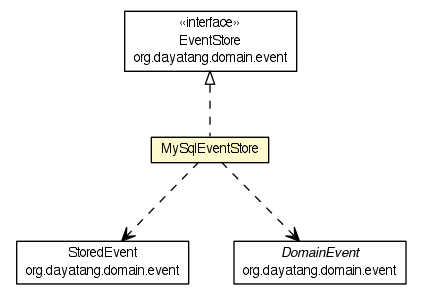
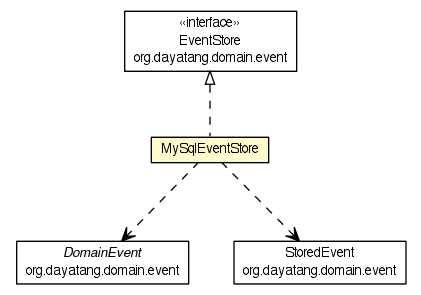
wagon-git commit

Changed region(s): [[0.6485, 0.8237, 0.8646, 0.8847], [0.1544, 0.8237, 0.3397, 0.8847]]

diff --git a/dddlib-event-store/apidocs/org/dayatang/mysql/MySqlEventStore.html b/dddlib-event-store/apidocs/org/dayatang/mysql/MySqlEventStore.html
@@ -2,7 +2,7 @@
 <!-- NewPage -->
 <html lang="en">
 <head>
-<!-- Generated by javadoc (version 1.7.0_67) on Mon Oct 06 21:34:44 CST 2014 -->
+<!-- Generated by javadoc (version 1.7.0_67) on Mon Oct 06 22:26:11 CST 2014 -->
 <meta http-equiv="Content-Type" content="text/html" charset="UTF-8">
 <title>MySqlEventStore (DDDLib Database Utils 4.4.1-SNAPSHOT API)</title>
 <meta name="date" content="2014-10-06">
@@ -84,10 +84,10 @@
 <map id="G" name="G">
 <area shape="rect" id="node1_0" href="./MySqlEventStore.html" title="org.dayatang.mysql.MySqlEventStore" alt="" coords="151,137,269,162"/>
 <area shape="rect" id="node1" href="./MySqlEventStore.html" title="&lt;TABLE&gt;" alt="" coords="141,125,279,173"/>
-<area shape="rect" id="node3_1" href="http://java.sun.com/j2se/1.4.2/docs/api/org/dayatang/domain/event/StoredEvent.html" title="org.dayatang.domain.event.StoredEvent" alt="" coords="16,241,188,284"/>
-<area shape="rect" id="node3" href="http://java.sun.com/j2se/1.4.2/docs/api/org/dayatang/domain/event/StoredEvent.html" title="&lt;TABLE&gt;" alt="" coords="5,236,199,289"/>
-<area shape="rect" id="node4_2" href="http://java.sun.com/j2se/1.4.2/docs/api/org/dayatang/domain/event/DomainEvent.html" title="org.dayatang.domain.event.DomainEvent" alt="" coords="233,241,405,284"/>
-<area shape="rect" id="node4" href="http://java.sun.com/j2se/1.4.2/docs/api/org/dayatang/domain/event/DomainEvent.html" title="&lt;TABLE&gt;" alt="" coords="223,236,416,289"/>
+<area shape="rect" id="node3_1" href="http://java.sun.com/j2se/1.4.2/docs/api/org/dayatang/domain/event/DomainEvent.html" title="org.dayatang.domain.event.DomainEvent" alt="" coords="16,241,188,284"/>
+<area shape="rect" id="node3" href="http://java.sun.com/j2se/1.4.2/docs/api/org/dayatang/domain/event/DomainEvent.html" title="&lt;TABLE&gt;" alt="" coords="5,236,199,289"/>
+<area shape="rect" id="node4_2" href="http://java.sun.com/j2se/1.4.2/docs/api/org/dayatang/domain/event/StoredEvent.html" title="org.dayatang.domain.event.StoredEvent" alt="" coords="233,241,405,284"/>
+<area shape="rect" id="node4" href="http://java.sun.com/j2se/1.4.2/docs/api/org/dayatang/domain/event/StoredEvent.html" title="&lt;TABLE&gt;" alt="" coords="223,236,416,289"/>
 <area shape="rect" id="node2_3" href="http://java.sun.com/j2se/1.4.2/docs/api/org/dayatang/domain/event/EventStore.html" title="org.dayatang.domain.event.EventStore" alt="" coords="124,11,296,71"/>
 <area shape="rect" id="node2" href="http://java.sun.com/j2se/1.4.2/docs/api/org/dayatang/domain/event/EventStore.html" title="&lt;TABLE&gt;" alt="" coords="113,5,307,76"/>
 </map>
@@ -108,13 +108,13 @@
 <li class="blockList">
 <dl>
 <dt>All Implemented Interfaces:</dt>
-<dd><a href="http://www.dayatang.org/dddlib/dddlib-domain/apidocs/org/dayatang/domain/event/EventStore.html?is-external=true" title="class or interface in org.dayatang.domain.event">EventStore</a></dd>
+<dd>org.dayatang.domain.event.EventStore</dd>
 </dl>
 <hr>
 <br>
 <pre>public class <span class="strong">MySqlEventStore</span>
 extends <a href="http://docs.oracle.com/javase/6/docs/api/java/lang/Object.html?is-external=true" title="class or interface in java.lang">Object</a>
-implements <a href="http://www.dayatang.org/dddlib/dddlib-domain/apidocs/org/dayatang/domain/event/EventStore.html?is-external=true" title="class or interface in org.dayatang.domain.event">EventStore</a></pre>
+implements org.dayatang.domain.event.EventStore</pre>
 <div class="block">Created by yyang on 14-9-16.</div>
 </li>
 </ul>
@@ -152,8 +152,8 @@ implements <a href="http://www.dayatang.org/dddlib/dddlib-domain/apidocs/org/day
 <th class="colLast" scope="col">Method and Description</th>
 </tr>
 <tr class="altColor">
-<td class="colFirst"><code><a href="http://www.dayatang.org/dddlib/dddlib-domain/apidocs/org/dayatang/domain/event/StoredEvent.html?is-external=true" title="class or interface in org.dayatang.domain.event">StoredEvent</a></code></td>
-<td class="colLast"><code><strong><a href="../../../org/dayatang/mysql/MySqlEventStore.html#append(org.dayatang.domain.event.DomainEvent)">append</a></strong>(<a href="http://www.dayatang.org/dddlib/dddlib-domain/apidocs/org/dayatang/domain/event/DomainEvent.html?is-external=true" title="class or interface in org.dayatang.domain.event">DomainEvent</a>&nbsp;domainEvent)</code>&nbsp;</td>
+<td class="colFirst"><code>org.dayatang.domain.event.StoredEvent</code></td>
+<td class="colLast"><code><strong><a href="../../../org/dayatang/mysql/MySqlEventStore.html#append(org.dayatang.domain.event.DomainEvent)">append</a></strong>(org.dayatang.domain.event.DomainEvent&nbsp;domainEvent)</code>&nbsp;</td>
 </tr>
 <tr class="rowColor">
 <td class="colFirst"><code>void</code></td>
@@ -164,12 +164,12 @@ implements <a href="http://www.dayatang.org/dddlib/dddlib-domain/apidocs/org/day
 <td class="colLast"><code><strong><a href="../../../org/dayatang/mysql/MySqlEventStore.html#countStoredEvents()">countStoredEvents</a></strong>()</code>&nbsp;</td>
 </tr>
 <tr class="rowColor">
-<td class="colFirst"><code><a href="http://docs.oracle.com/javase/6/docs/api/java/util/List.html?is-external=true" title="class or interface in java.util">List</a>&lt;<a href="http://www.dayatang.org/dddlib/dddlib-domain/apidocs/org/dayatang/domain/event/StoredEvent.html?is-external=true" title="class or interface in org.dayatang.domain.event">StoredEvent</a>&gt;</code></td>
+<td class="colFirst"><code><a href="http://docs.oracle.com/javase/6/docs/api/java/util/List.html?is-external=true" title="class or interface in java.util">List</a>&lt;org.dayatang.domain.event.StoredEvent&gt;</code></td>
 <td class="colLast"><code><strong><a href="../../../org/dayatang/mysql/MySqlEventStore.html#findStoredEventsBetween(java.util.Date,%20java.util.Date)">findStoredEventsBetween</a></strong>(<a href="http://docs.oracle.com/javase/6/docs/api/java/util/Date.html?is-external=true" title="class or interface in java.util">Date</a>&nbsp;occurredFrom,
                        <a href="http://docs.oracle.com/javase/6/docs/api/java/util/Date.html?is-external=true" title="class or interface in java.util">Date</a>&nbsp;occurredTo)</code>&nbsp;</td>
 </tr>
 <tr class="altColor">
-<td class="colFirst"><code><a href="http://docs.oracle.com/javase/6/docs/api/java/util/List.html?is-external=true" title="class or interface in java.util">List</a>&lt;<a href="http://www.dayatang.org/dddlib/dddlib-domain/apidocs/org/dayatang/domain/event/StoredEvent.html?is-external=true" title="class or interface in org.dayatang.domain.event">StoredEvent</a>&gt;</code></td>
+<td class="colFirst"><code><a href="http://docs.oracle.com/javase/6/docs/api/java/util/List.html?is-external=true" title="class or interface in java.util">List</a>&lt;org.dayatang.domain.event.StoredEvent&gt;</code></td>
 <td class="colLast"><code><strong><a href="../../../org/dayatang/mysql/MySqlEventStore.html#findStoredEventsSince(java.util.Date)">findStoredEventsSince</a></strong>(<a href="http://docs.oracle.com/javase/6/docs/api/java/util/Date.html?is-external=true" title="class or interface in java.util">Date</a>&nbsp;occurredFrom)</code>&nbsp;</td>
 </tr>
 </table>
@@ -217,11 +217,11 @@ implements <a href="http://www.dayatang.org/dddlib/dddlib-domain/apidocs/org/day
 <ul class="blockList">
 <li class="blockList">
 <h4>findStoredEventsBetween</h4>
-<pre>public&nbsp;<a href="http://docs.oracle.com/javase/6/docs/api/java/util/List.html?is-external=true" title="class or interface in java.util">List</a>&lt;<a href="http://www.dayatang.org/dddlib/dddlib-domain/apidocs/org/dayatang/domain/event/StoredEvent.html?is-external=true" title="class or interface in org.dayatang.domain.event">StoredEvent</a>&gt;&nbsp;findStoredEventsBetween(<a href="http://docs.oracle.com/javase/6/docs/api/java/util/Date.html?is-external=true" title="class or interface in java.util">Date</a>&nbsp;occurredFrom,
-                                        <a href="http://docs.oracle.com/javase/6/docs/api/java/util/Date.html?is-external=true" title="class or interface in java.util">Date</a>&nbsp;occurredTo)</pre>
+<pre>public&nbsp;<a href="http://docs.oracle.com/javase/6/docs/api/java/util/List.html?is-external=true" title="class or interface in java.util">List</a>&lt;org.dayatang.domain.event.StoredEvent&gt;&nbsp;findStoredEventsBetween(<a href="http://docs.oracle.com/javase/6/docs/api/java/util/Date.html?is-external=true" title="class or interface in java.util">Date</a>&nbsp;occurredFrom,
+                                                                  <a href="http://docs.oracle.com/javase/6/docs/api/java/util/Date.html?is-external=true" title="class or interface in java.util">Date</a>&nbsp;occurredTo)</pre>
 <dl>
 <dt><strong>Specified by:</strong></dt>
-<dd><code><a href="http://www.dayatang.org/dddlib/dddlib-domain/apidocs/org/dayatang/domain/event/EventStore.html?is-external=true#findStoredEventsBetween(java.util.Date,%20java.util.Date)" title="class or interface in org.dayatang.domain.event">findStoredEventsBetween</a></code>&nbsp;in interface&nbsp;<code><a href="http://www.dayatang.org/dddlib/dddlib-domain/apidocs/org/dayatang/domain/event/EventStore.html?is-external=true" title="class or interface in org.dayatang.domain.event">EventStore</a></code></dd>
+<dd><code>findStoredEventsBetween</code>&nbsp;in interface&nbsp;<code>org.dayatang.domain.event.EventStore</code></dd>
 </dl>
 </li>
 </ul>
@@ -231,10 +231,10 @@ implements <a href="http://www.dayatang.org/dddlib/dddlib-domain/apidocs/org/day
 <ul class="blockList">
 <li class="blockList">
 <h4>findStoredEventsSince</h4>
-<pre>public&nbsp;<a href="http://docs.oracle.com/javase/6/docs/api/java/util/List.html?is-external=true" title="class or interface in java.util">List</a>&lt;<a href="http://www.dayatang.org/dddlib/dddlib-domain/apidocs/org/dayatang/domain/event/StoredEvent.html?is-external=true" title="class or interface in org.dayatang.domain.event">StoredEvent</a>&gt;&nbsp;findStoredEventsSince(<a href="http://docs.oracle.com/javase/6/docs/api/java/util/Date.html?is-external=true" title="class or interface in java.util">Date</a>&nbsp;occurredFrom)</pre>
+<pre>public&nbsp;<a href="http://docs.oracle.com/javase/6/docs/api/java/util/List.html?is-external=true" title="class or interface in java.util">List</a>&lt;org.dayatang.domain.event.StoredEvent&gt;&nbsp;findStoredEventsSince(<a href="http://docs.oracle.com/javase/6/docs/api/java/util/Date.html?is-external=true" title="class or interface in java.util">Date</a>&nbsp;occurredFrom)</pre>
 <dl>
 <dt><strong>Specified by:</strong></dt>
-<dd><code><a href="http://www.dayatang.org/dddlib/dddlib-domain/apidocs/org/dayatang/domain/event/EventStore.html?is-external=true#findStoredEventsSince(java.util.Date)" title="class or interface in org.dayatang.domain.event">findStoredEventsSince</a></code>&nbsp;in interface&nbsp;<code><a href="http://www.dayatang.org/dddlib/dddlib-domain/apidocs/org/dayatang/domain/event/EventStore.html?is-external=true" title="class or interface in org.dayatang.domain.event">EventStore</a></code></dd>
+<dd><code>findStoredEventsSince</code>&nbsp;in interface&nbsp;<code>org.dayatang.domain.event.EventStore</code></dd>
 </dl>
 </li>
 </ul>
@@ -244,10 +244,10 @@ implements <a href="http://www.dayatang.org/dddlib/dddlib-domain/apidocs/org/day
 <ul class="blockList">
 <li class="blockList">
 <h4>append</h4>
-<pre>public&nbsp;<a href="http://www.dayatang.org/dddlib/dddlib-domain/apidocs/org/dayatang/domain/event/StoredEvent.html?is-external=true" title="class or interface in org.dayatang.domain.event">StoredEvent</a>&nbsp;append(<a href="http://www.dayatang.org/dddlib/dddlib-domain/apidocs/org/dayatang/domain/event/DomainEvent.html?is-external=true" title="class or interface in org.dayatang.domain.event">DomainEvent</a>&nbsp;domainEvent)</pre>
+<pre>public&nbsp;org.dayatang.domain.event.StoredEvent&nbsp;append(org.dayatang.domain.event.DomainEvent&nbsp;domainEvent)</pre>
 <dl>
 <dt><strong>Specified by:</strong></dt>
-<dd><code><a href="http://www.dayatang.org/dddlib/dddlib-domain/apidocs/org/dayatang/domain/event/EventStore.html?is-external=true#append(org.dayatang.domain.event.DomainEvent)" title="class or interface in org.dayatang.domain.event">append</a></code>&nbsp;in interface&nbsp;<code><a href="http://www.dayatang.org/dddlib/dddlib-domain/apidocs/org/dayatang/domain/event/EventStore.html?is-external=true" title="class or interface in org.dayatang.domain.event">EventStore</a></code></dd>
+<dd><code>append</code>&nbsp;in interface&nbsp;<code>org.dayatang.domain.event.EventStore</code></dd>
 </dl>
 </li>
 </ul>
@@ -260,7 +260,7 @@ implements <a href="http://www.dayatang.org/dddlib/dddlib-domain/apidocs/org/day
 <pre>public&nbsp;void&nbsp;close()</pre>
 <dl>
 <dt><strong>Specified by:</strong></dt>
-<dd><code><a href="http://www.dayatang.org/dddlib/dddlib-domain/apidocs/org/dayatang/domain/event/EventStore.html?is-external=true#close()" title="class or interface in org.dayatang.domain.event">close</a></code>&nbsp;in interface&nbsp;<code><a href="http://www.dayatang.org/dddlib/dddlib-domain/apidocs/org/dayatang/domain/event/EventStore.html?is-external=true" title="class or interface in org.dayatang.domain.event">EventStore</a></code></dd>
+<dd><code>close</code>&nbsp;in interface&nbsp;<code>org.dayatang.domain.event.EventStore</code></dd>
 </dl>
 </li>
 </ul>
@@ -273,7 +273,7 @@ implements <a href="http://www.dayatang.org/dddlib/dddlib-domain/apidocs/org/day
 <pre>public&nbsp;long&nbsp;countStoredEvents()</pre>
 <dl>
 <dt><strong>Specified by:</strong></dt>
-<dd><code><a href="http://www.dayatang.org/dddlib/dddlib-domain/apidocs/org/dayatang/domain/event/EventStore.html?is-external=true#countStoredEvents()" title="class or interface in org.dayatang.domain.event">countStoredEvents</a></code>&nbsp;in interface&nbsp;<code><a href="http://www.dayatang.org/dddlib/dddlib-domain/apidocs/org/dayatang/domain/event/EventStore.html?is-external=true" title="class or interface in org.dayatang.domain.event">EventStore</a></code></dd>
+<dd><code>countStoredEvents</code>&nbsp;in interface&nbsp;<code>org.dayatang.domain.event.EventStore</code></dd>
 </dl>
 </li>
 </ul>

diff --git a/dddlib-event-store/apidocs/org/dayatang/mysql/package-tree.html b/dddlib-event-store/apidocs/org/dayatang/mysql/package-tree.html
@@ -2,7 +2,7 @@
 <!-- NewPage -->
 <html lang="en">
 <head>
-<!-- Generated by javadoc (version 1.7.0_67) on Mon Oct 06 21:34:44 CST 2014 -->
+<!-- Generated by javadoc (version 1.7.0_67) on Mon Oct 06 22:26:11 CST 2014 -->
 <meta http-equiv="Content-Type" content="text/html" charset="UTF-8">
 <title>org.dayatang.mysql Class Hierarchy (DDDLib Database Utils 4.4.1-SNAPSHOT API)</title>
 <meta name="date" content="2014-10-06">
@@ -70,7 +70,7 @@
 <ul>
 <li type="circle">java.lang.<a href="http://docs.oracle.com/javase/6/docs/api/java/lang/Object.html?is-external=true" title="class or interface in java.lang"><span class="strong">Object</span></a>
 <ul>
-<li type="circle">org.dayatang.mysql.<a href="../../../org/dayatang/mysql/MySqlEventStore.html" title="class in org.dayatang.mysql"><span class="strong">MySqlEventStore</span></a> (implements org.dayatang.domain.event.<a href="http://www.dayatang.org/dddlib/dddlib-domain/apidocs/org/dayatang/domain/event/EventStore.html?is-external=true" title="class or interface in org.dayatang.domain.event">EventStore</a>)</li>
+<li type="circle">org.dayatang.mysql.<a href="../../../org/dayatang/mysql/MySqlEventStore.html" title="class in org.dayatang.mysql"><span class="strong">MySqlEventStore</span></a> (implements org.dayatang.domain.event.EventStore)</li>
 </ul>
 </li>
 </ul>

diff --git a/dddlib-event-store/dependencies.html b/dddlib-event-store/dependencies.html
@@ -520,21 +520,21 @@
 <td>1.6</td>
 <td>debug</td></tr>
 <tr class="b">
-<td>dddlib-domain/target/classes</td>
-<td>-</td>
-<td>0</td>
-<td>0</td>
-<td>0</td>
-<td>-</td>
-<td>release</td></tr>
+<td>dddlib-domain-4.4.1-SNAPSHOT.jar</td>
+<td>81.40 kB</td>
+<td>95</td>
+<td>83</td>
+<td>5</td>
+<td>1.6</td>
+<td>debug</td></tr>
 <tr class="a">
-<td>dddlib-utils/target/classes</td>
-<td>-</td>
-<td>0</td>
-<td>0</td>
-<td>0</td>
-<td>-</td>
-<td>release</td></tr>
+<td>dddlib-utils-4.4.1-SNAPSHOT.jar</td>
+<td>26.16 kB</td>
+<td>24</td>
+<td>17</td>
+<td>2</td>
+<td>1.6</td>
+<td>debug</td></tr>
 <tr class="b">
 <td>javax.persistence-2.1.0.jar</td>
 <td>158.33 kB</td>
@@ -609,20 +609,20 @@
 <th>&#x8c03;&#x8bd5;</th></tr>
 <tr class="a">
 <td>16</td>
-<td>7.66 MB</td>
-<td>5,407</td>
-<td>4,544</td>
-<td>224</td>
+<td>7.77 MB</td>
+<td>5,526</td>
+<td>4,644</td>
+<td>231</td>
 <td>1.6</td>
-<td>13</td></tr>
+<td>15</td></tr>
 <tr class="b">
 <td>compile: 12</td>
-<td>compile: 5.93 MB</td>
-<td>compile: 3,786</td>
-<td>compile: 3,589</td>
-<td>compile: 122</td>
+<td>compile: 6.03 MB</td>
+<td>compile: 3,905</td>
+<td>compile: 3,689</td>
+<td>compile: 129</td>
 <td>-</td>
-<td>compile: 9</td></tr>
+<td>compile: 11</td></tr>
 <tr class="a">
 <td>test: 4</td>
 <td>test: 1.73 MB</td>

diff --git a/dddlib-event-store/apidocs/overview-tree.html b/dddlib-event-store/apidocs/overview-tree.html
@@ -2,7 +2,7 @@
 <!-- NewPage -->
 <html lang="en">
 <head>
-<!-- Generated by javadoc (version 1.7.0_67) on Mon Oct 06 21:34:44 CST 2014 -->
+<!-- Generated by javadoc (version 1.7.0_67) on Mon Oct 06 22:26:11 CST 2014 -->
 <meta http-equiv="Content-Type" content="text/html" charset="UTF-8">
 <title>Class Hierarchy (DDDLib Database Utils 4.4.1-SNAPSHOT API)</title>
 <meta name="date" content="2014-10-06">
@@ -74,7 +74,7 @@
 <ul>
 <li type="circle">java.lang.<a href="http://docs.oracle.com/javase/6/docs/api/java/lang/Object.html?is-external=true" title="class or interface in java.lang"><span class="strong">Object</span></a>
 <ul>
-<li type="circle">org.dayatang.mysql.<a href="org/dayatang/mysql/MySqlEventStore.html" title="class in org.dayatang.mysql"><span class="strong">MySqlEventStore</span></a> (implements org.dayatang.domain.event.<a href="http://www.dayatang.org/dddlib/dddlib-domain/apidocs/org/dayatang/domain/event/EventStore.html?is-external=true" title="class or interface in org.dayatang.domain.event">EventStore</a>)</li>
+<li type="circle">org.dayatang.mysql.<a href="org/dayatang/mysql/MySqlEventStore.html" title="class in org.dayatang.mysql"><span class="strong">MySqlEventStore</span></a> (implements org.dayatang.domain.event.EventStore)</li>
 </ul>
 </li>
 </ul>

diff --git a/dddlib-event-store/cobertura/frame-summary.html b/dddlib-event-store/cobertura/frame-summary.html
@@ -25,6 +25,6 @@ var packageTable = new SortableTable(document.getElementById("packageResults"),
     ["String", "Number", "Percentage", "Percentage", "FormattedNumber"]);
 packageTable.sort(0);
 </script>
-<div class="footer">Report generated by <a href="http://cobertura.sourceforge.net/" target="_top">Cobertura</a> 2.0.3 on 14-10-6 下午9:34.</div>
+<div class="footer">Report generated by <a href="http://cobertura.sourceforge.net/" target="_top">Cobertura</a> 2.0.3 on 14-10-6 下午10:26.</div>
 </body>
 </html>

diff --git a/dddlib-event-store/cobertura/frame-summary-org.dayatang.mysql.html b/dddlib-event-store/cobertura/frame-summary-org.dayatang.mysql.html
@@ -37,6 +37,6 @@ var classTable = new SortableTable(document.getElementById("classResults"),
     ["String", "Percentage", "Percentage", "FormattedNumber"]);
 classTable.sort(0);
 </script>
-<div class="footer">Report generated by <a href="http://cobertura.sourceforge.net/" target="_top">Cobertura</a> 2.0.3 on 14-10-6 下午9:34.</div>
+<div class="footer">Report generated by <a href="http://cobertura.sourceforge.net/" target="_top">Cobertura</a> 2.0.3 on 14-10-6 下午10:26.</div>
 </body>
 </html>

diff --git a/dddlib-event-store/apidocs/org/dayatang/mysql/class-use/MySqlEventStore.html b/dddlib-event-store/apidocs/org/dayatang/mysql/class-use/MySqlEventStore.html
@@ -2,7 +2,7 @@
 <!-- NewPage -->
 <html lang="en">
 <head>
-<!-- Generated by javadoc (version 1.7.0_67) on Mon Oct 06 21:34:44 CST 2014 -->
+<!-- Generated by javadoc (version 1.7.0_67) on Mon Oct 06 22:26:11 CST 2014 -->
 <meta http-equiv="Content-Type" content="text/html" charset="UTF-8">
 <title>Uses of Class org.dayatang.mysql.MySqlEventStore (DDDLib Database Utils 4.4.1-SNAPSHOT API)</title>
 <meta name="date" content="2014-10-06">

diff --git a/dddlib-event-store/apidocs/org/dayatang/mysql/package-use.html b/dddlib-event-store/apidocs/org/dayatang/mysql/package-use.html
@@ -2,7 +2,7 @@
 <!-- NewPage -->
 <html lang="en">
 <head>
-<!-- Generated by javadoc (version 1.7.0_67) on Mon Oct 06 21:34:44 CST 2014 -->
+<!-- Generated by javadoc (version 1.7.0_67) on Mon Oct 06 22:26:11 CST 2014 -->
 <meta http-equiv="Content-Type" content="text/html" charset="UTF-8">
 <title>Uses of Package org.dayatang.mysql (DDDLib Database Utils 4.4.1-SNAPSHOT API)</title>
 <meta name="date" content="2014-10-06">

diff --git a/dddlib-event-store/apidocs/constant-values.html b/dddlib-event-store/apidocs/constant-values.html
@@ -2,7 +2,7 @@
 <!-- NewPage -->
 <html lang="en">
 <head>
-<!-- Generated by javadoc (version 1.7.0_67) on Mon Oct 06 21:34:44 CST 2014 -->
+<!-- Generated by javadoc (version 1.7.0_67) on Mon Oct 06 22:26:11 CST 2014 -->
 <meta http-equiv="Content-Type" content="text/html" charset="UTF-8">
 <title>Constant Field Values (DDDLib Database Utils 4.4.1-SNAPSHOT API)</title>
 <meta name="date" content="2014-10-06">

diff --git a/dddlib-event-store/apidocs/org/dayatang/mysql/package-frame.html b/dddlib-event-store/apidocs/org/dayatang/mysql/package-frame.html
@@ -2,7 +2,7 @@
 <!-- NewPage -->
 <html lang="en">
 <head>
-<!-- Generated by javadoc (version 1.7.0_67) on Mon Oct 06 21:34:44 CST 2014 -->
+<!-- Generated by javadoc (version 1.7.0_67) on Mon Oct 06 22:26:11 CST 2014 -->
 <meta http-equiv="Content-Type" content="text/html" charset="UTF-8">
 <title>org.dayatang.mysql (DDDLib Database Utils 4.4.1-SNAPSHOT API)</title>
 <meta name="date" content="2014-10-06">

diff --git a/dddlib-event-store/apidocs/org/dayatang/mysql/package-summary.html b/dddlib-event-store/apidocs/org/dayatang/mysql/package-summary.html
@@ -2,7 +2,7 @@
 <!-- NewPage -->
 <html lang="en">
 <head>
-<!-- Generated by javadoc (version 1.7.0_67) on Mon Oct 06 21:34:44 CST 2014 -->
+<!-- Generated by javadoc (version 1.7.0_67) on Mon Oct 06 22:26:11 CST 2014 -->
 <meta http-equiv="Content-Type" content="text/html" charset="UTF-8">
 <title>org.dayatang.mysql (DDDLib Database Utils 4.4.1-SNAPSHOT API)</title>
 <meta name="date" content="2014-10-06">

diff --git a/dddlib-event-store/apidocs/deprecated-list.html b/dddlib-event-store/apidocs/deprecated-list.html
@@ -2,7 +2,7 @@
 <!-- NewPage -->
 <html lang="en">
 <head>
-<!-- Generated by javadoc (version 1.7.0_67) on Mon Oct 06 21:34:44 CST 2014 -->
+<!-- Generated by javadoc (version 1.7.0_67) on Mon Oct 06 22:26:11 CST 2014 -->
 <meta http-equiv="Content-Type" content="text/html" charset="UTF-8">
 <title>Deprecated List (DDDLib Database Utils 4.4.1-SNAPSHOT API)</title>
 <meta name="date" content="2014-10-06">
